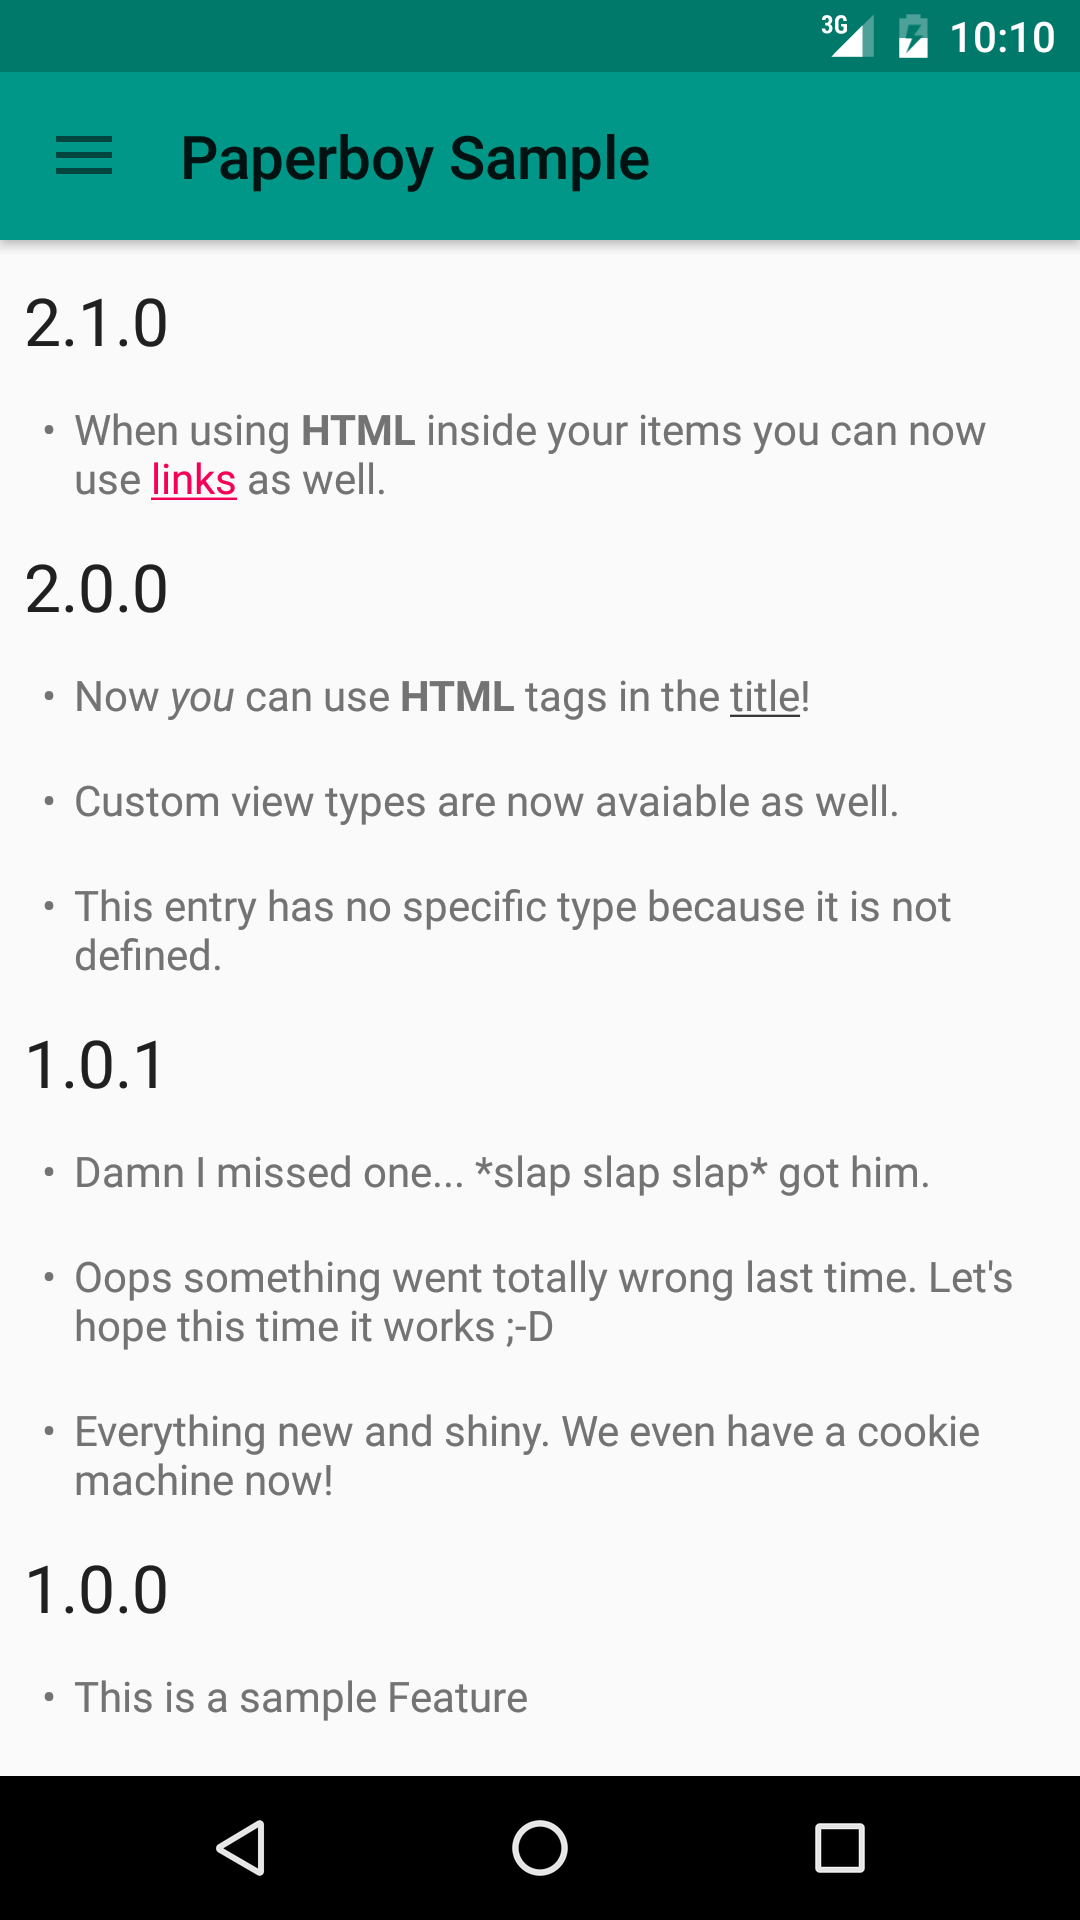
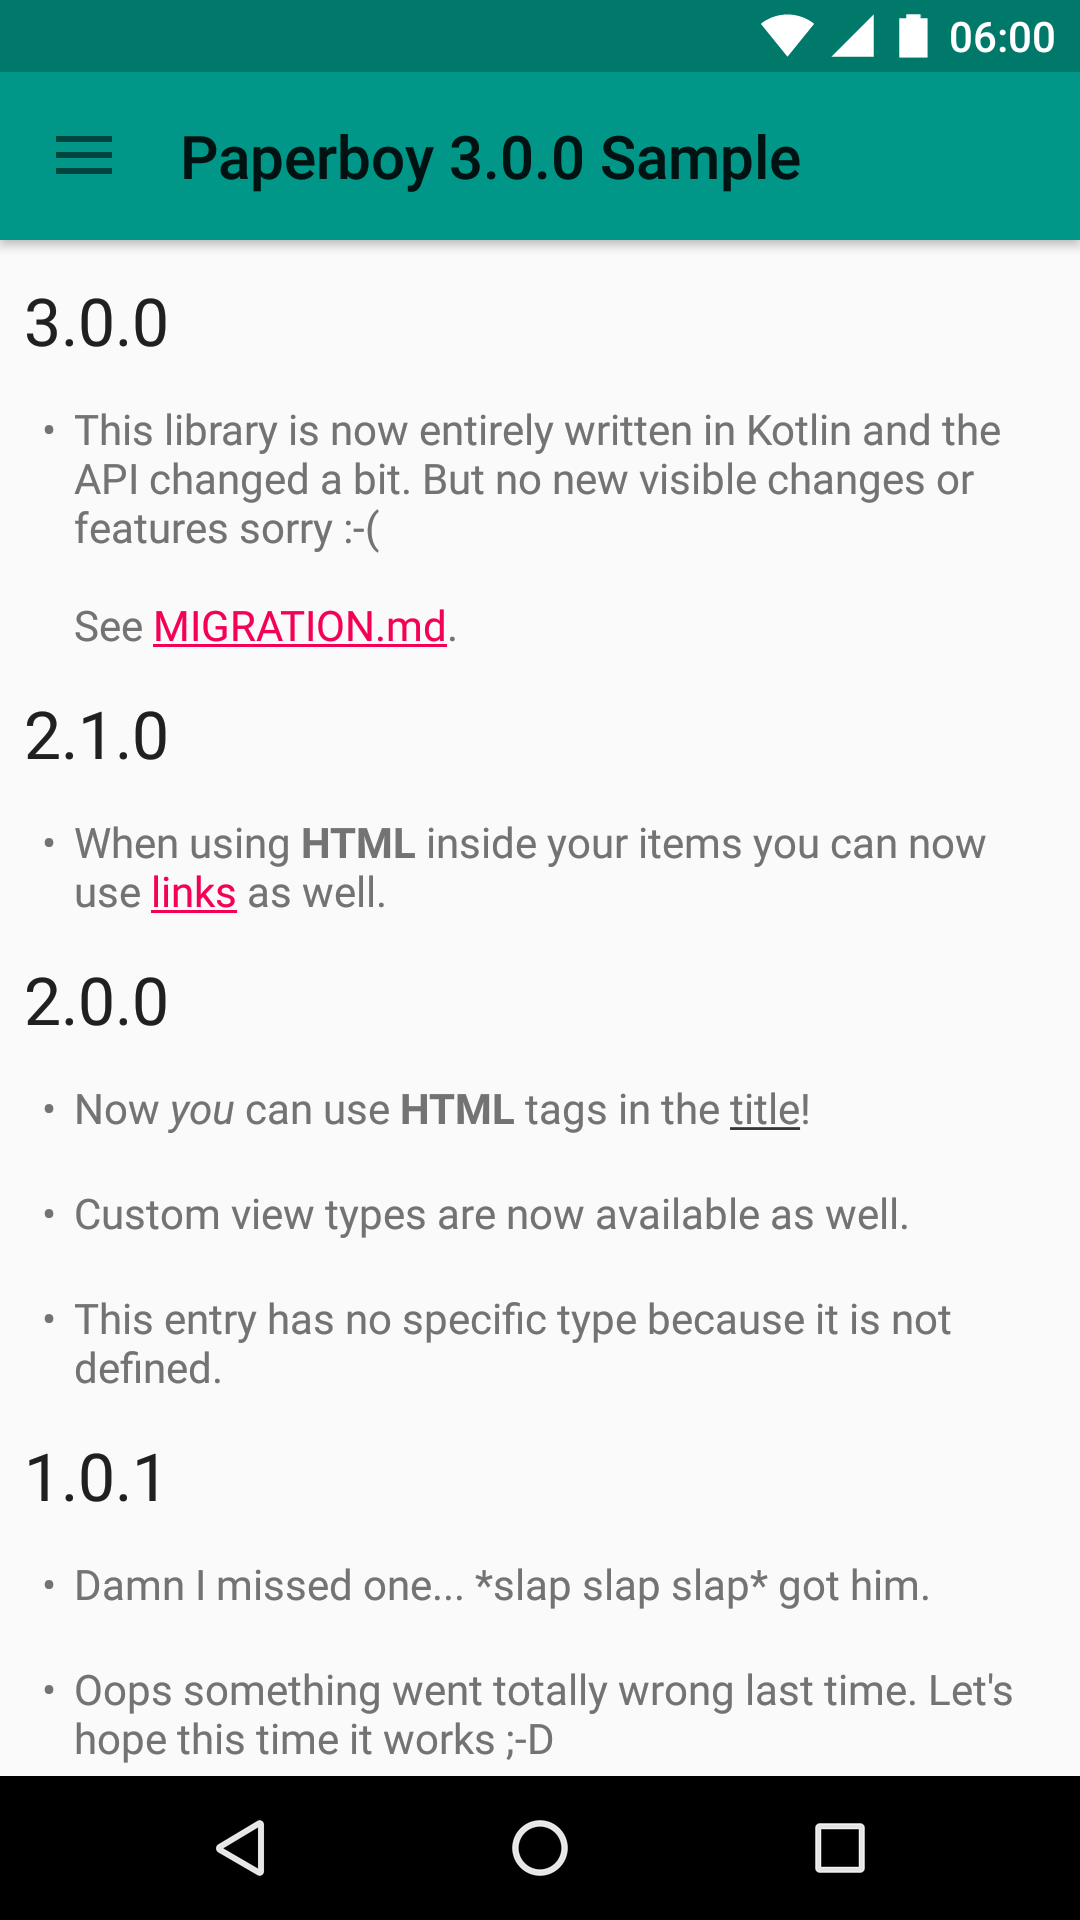
Update screenshots and add a migration guide

diff --git a/README.md b/README.md
@@ -6,10 +6,10 @@ Paperboy
 
 A changelog library for Android
 
-[![Screenshot 1](https://raw.githubusercontent.com/porokoro/paperboy/develop/art/screenshot-1-thumbnail.png)](https://raw.githubusercontent.com/porokoro/paperboy/develop/art/screenshot-1.png)
-[![Screenshot 2](https://raw.githubusercontent.com/porokoro/paperboy/develop/art/screenshot-2-thumbnail.png)](https://raw.githubusercontent.com/porokoro/paperboy/develop/art/screenshot-2.png)
-[![Screenshot 3](https://raw.githubusercontent.com/porokoro/paperboy/develop/art/screenshot-3-thumbnail.png)](https://raw.githubusercontent.com/porokoro/paperboy/develop/art/screenshot-3.png)
-[![Screenshot 4](https://raw.githubusercontent.com/porokoro/paperboy/develop/art/screenshot-4-thumbnail.png)](https://raw.githubusercontent.com/porokoro/paperboy/develop/art/screenshot-4.png)
+[<img src="https://raw.githubusercontent.com/porokoro/paperboy/develop/art/screenshot-1-thumbnail.png" alt="Screenshot 1" width="216"/>](https://raw.githubusercontent.com/porokoro/paperboy/develop/art/screenshot-1.png)
+[<img src="https://raw.githubusercontent.com/porokoro/paperboy/develop/art/screenshot-2-thumbnail.png" alt="Screenshot 2" width="216"/>](https://raw.githubusercontent.com/porokoro/paperboy/develop/art/screenshot-2.png)
+[<img src="https://raw.githubusercontent.com/porokoro/paperboy/develop/art/screenshot-3-thumbnail.png" alt="Screenshot 3" width="216"/>](https://raw.githubusercontent.com/porokoro/paperboy/develop/art/screenshot-3.png)
+[<img src="https://raw.githubusercontent.com/porokoro/paperboy/develop/art/screenshot-4-thumbnail.png" alt="Screenshot 4" width="216"/>](https://raw.githubusercontent.com/porokoro/paperboy/develop/art/screenshot-4.png)
 
 Download
 --------
@@ -113,6 +113,12 @@ json keys, **case insensitive**.
 In addition you can define your own item types using the `ItemTypeBuilder` in
 combination with the `addItemType(ItemType)` method on `PaperboyBuilder`. You
 can even override the default ones.
+
+Migration
+---------
+
+Please see https://github.com/porokoro/paperboy/blob/develop/MIGRATION.md for
+migrating to version 3.0.0.
 
 License
 -------

diff --git a/MIGRATION.md b/MIGRATION.md
@@ -1,0 +1,36 @@
+Migration
+=========
+
+1.0.0 or later -> 3.0.0
+-----------------------
+The `PaperboyBuilder` now uses Kotlin Lambdas for easy configuration. To get
+the old method chaining back again, use `PaperboyChainBuilder`.
+
+#### PaperboyChainBuilder
+
+The methods pattern has changed. The _set_ at the beginning has been removed.
+For example `setViewType(...)` is now `viewType(...)`.
+
+#### Kotlin
+
+If you are using Kotlin you should use the new method `buildPaperboy(Context)`
+instead. For example:
+```kotlin
+import com.github.porokoro.paperboy.builders.buildItemType
+import com.github.porokoro.paperboy.builders.buildPaperboy
+
+val fragment = buildPaperboy(this) {
+    viewType = ViewTypes.HEADER
+    itemTypes = listOf(
+            buildItemType(this@MainActivity, 1000, "Custom", "c") {
+                colorRes = R.color.item_type_custom
+                titleSingularRes = R.string.item_type_custom
+                titlePluralRes = R.string.item_type_customs
+                icon = R.drawable.ic_build_black_24dp
+                sortOrder = 0
+            }
+    )
+}
+```
+You can look at the code of the [sample app](https://github.com/porokoro/paperboy/blob/develop/sample/src/main/kotlin/com/github/porokoro/paperboy/sample/MainActivity.kt)
+for more variations.
